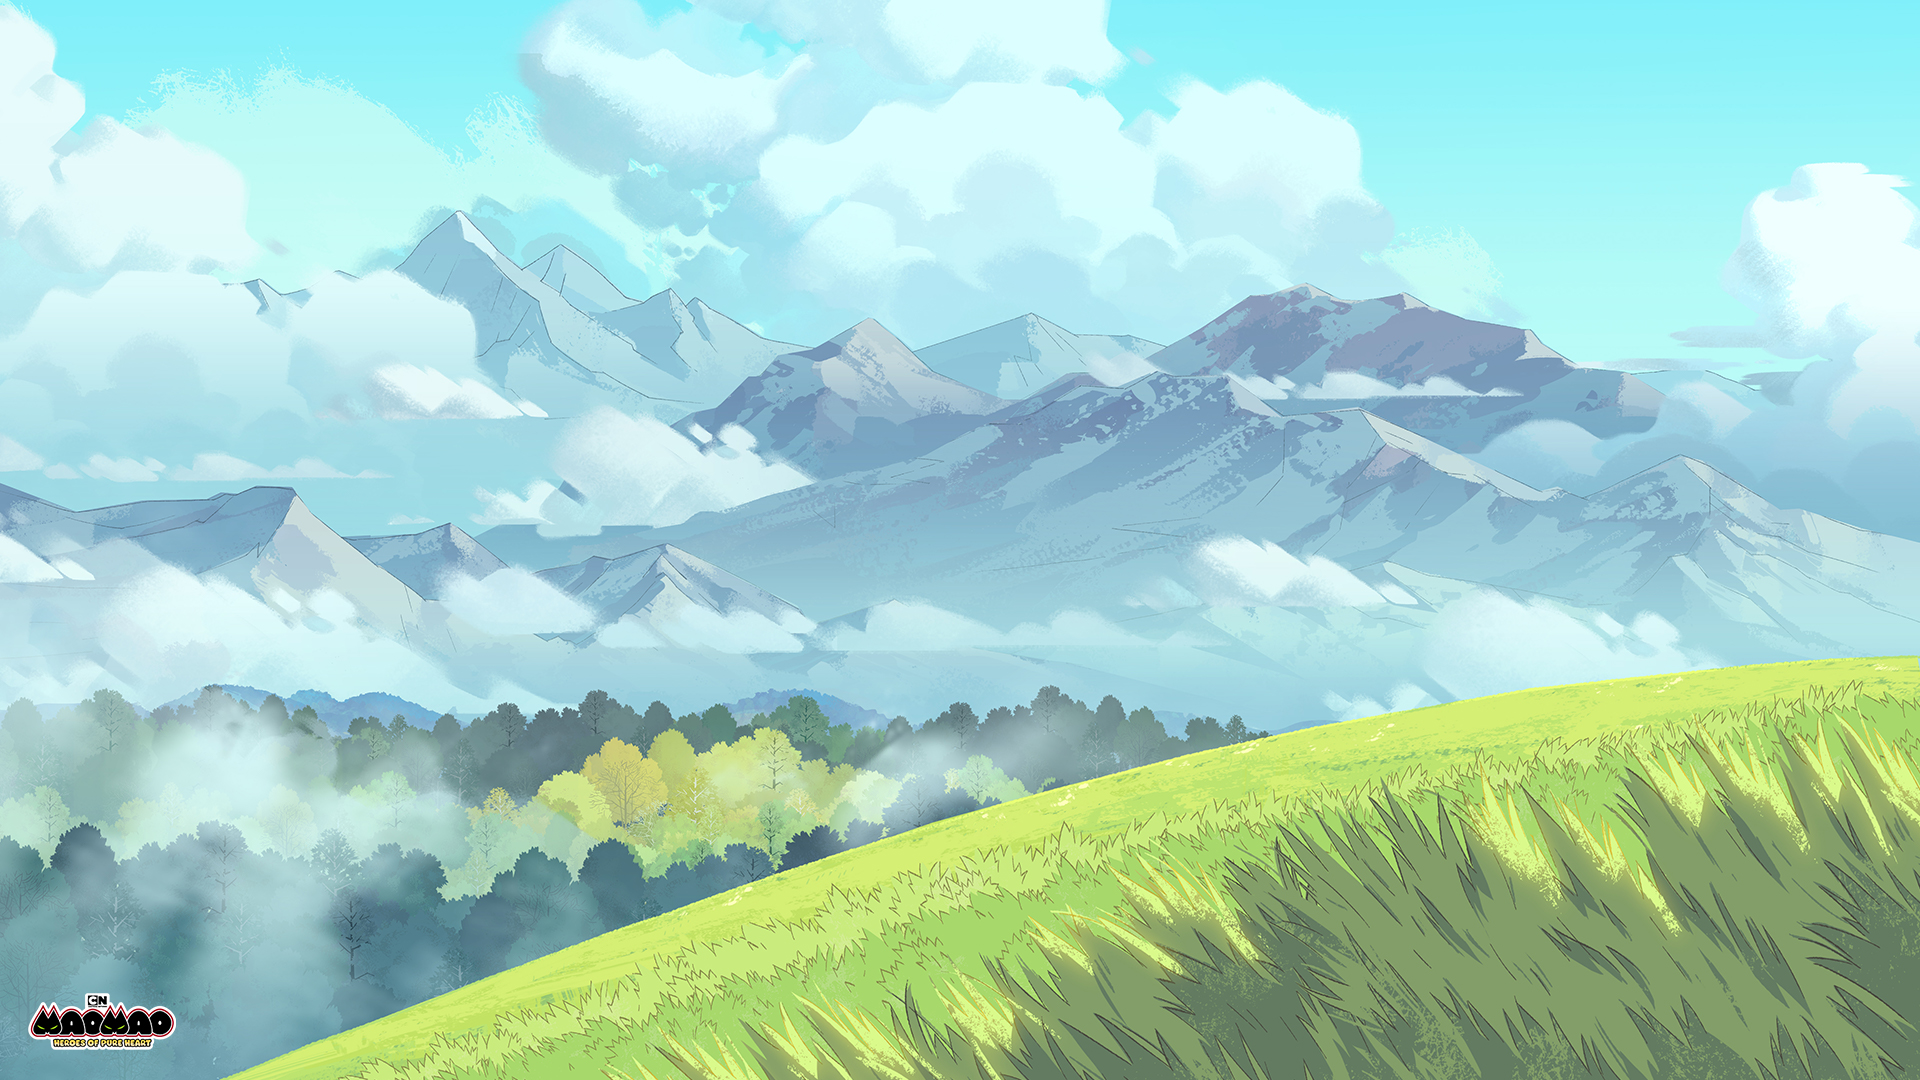
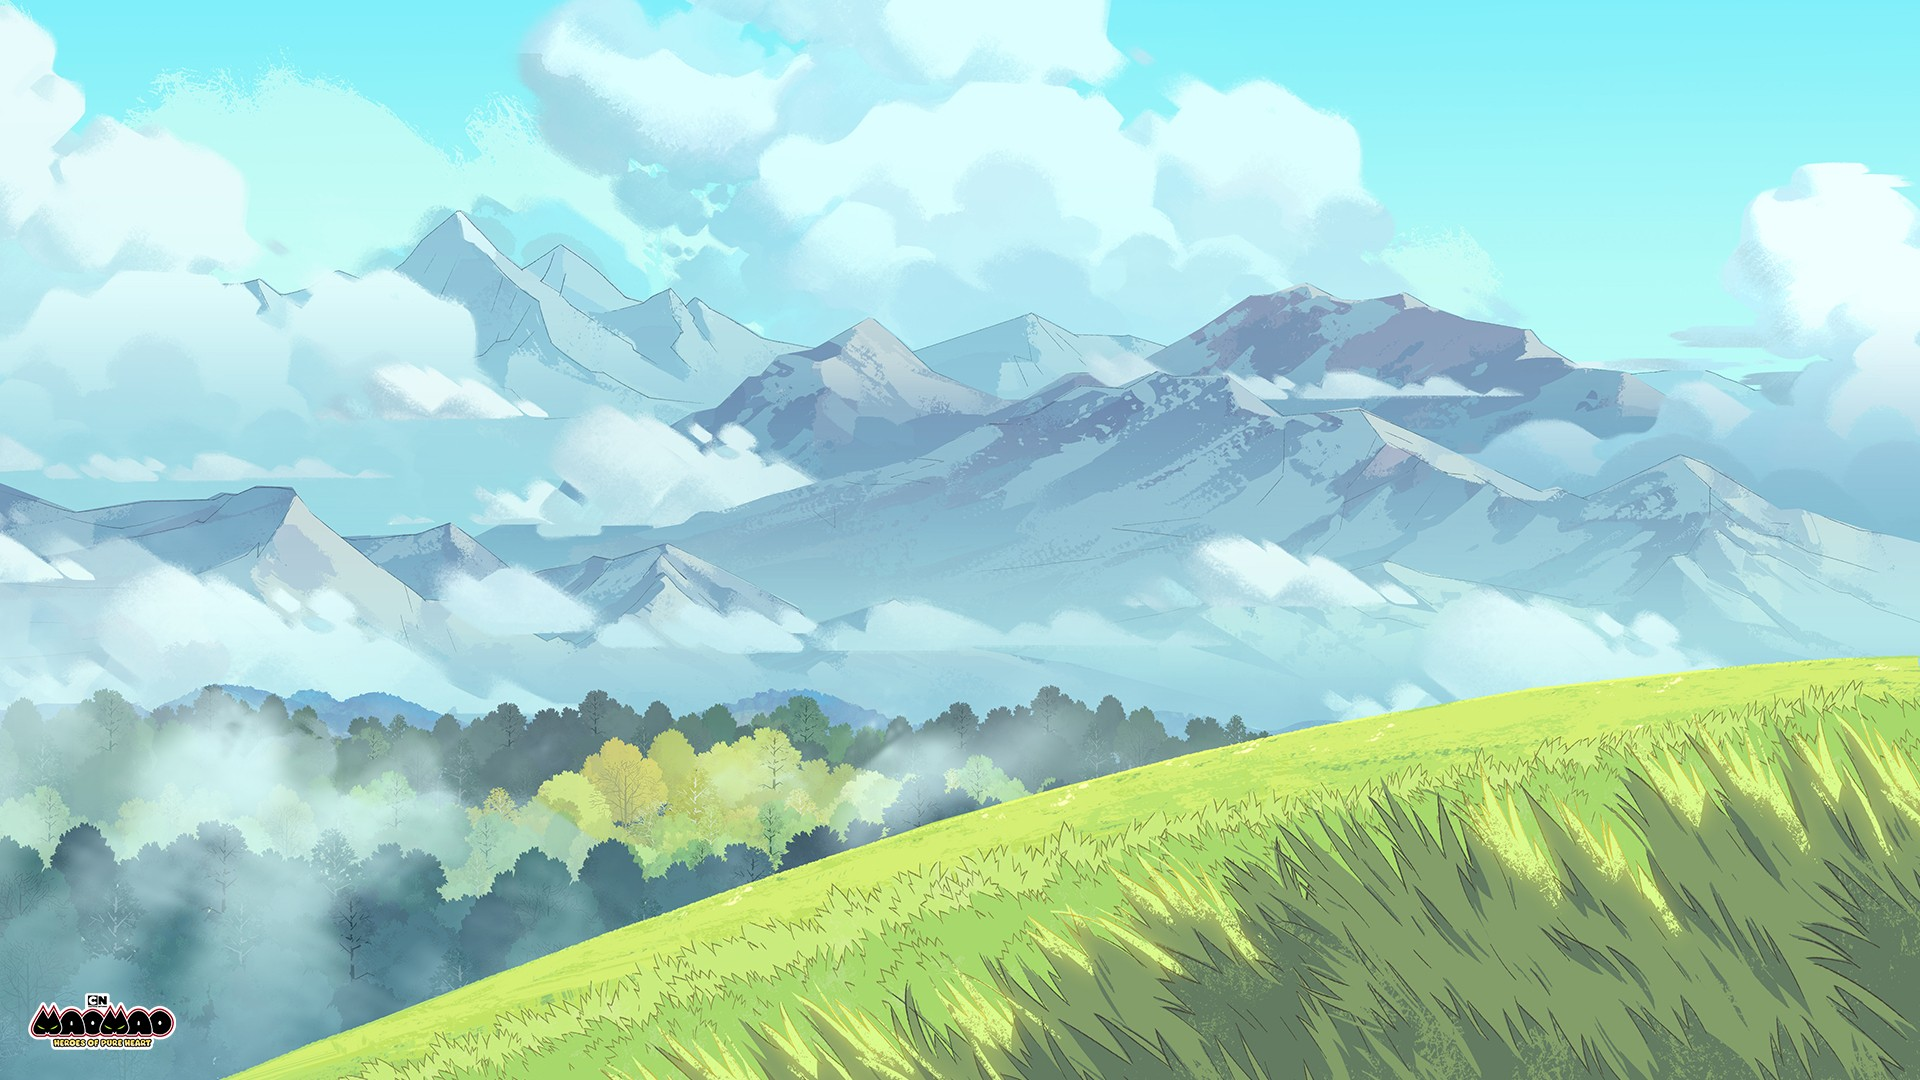
Site updated: 2021-11-17 17:37:42

Changed region(s): [[0.0312, 0.9472, 0.0938, 0.9778], [0.5938, 0.7944, 0.625, 0.825]]

diff --git a/css/diaspora.css b/css/diaspora.css
@@ -27,7 +27,7 @@ audio {display:none;visibility:hidden;opacity:0;width:0;height:0;}
 #header > div {margin:0 60px;position:relative;}
 .icon-menu {font-size:20px;padding:6px 6px 5px;border-radius:2px;cursor:pointer;position:absolute;z-index:4;right:0;top:0;margin-top:-3px;background:rgba(255,255,255,.9);}
 .icon-search {font-size:20px;padding:6px 6px 5px;border-radius:2px;cursor:pointer;position:absolute;z-index:4;right:40px;top:0;margin-top:-3px;background:rgba(255,255,255,.9);}
-.image-logo {z-index:4;position:relative;display:inline-block;-webkit-background-size:75px 32px;-moz-background-size:75px 32px;background-size:75px 32px;background-repeat:no-repeat;background-position:center center;-webkit-mask-box-image:url("/img/mylogo.png");background-color:white;width:75px;height:32px;mask-image:url("/img/mylogo.png");mask-size:contain;transition: background-color 0.5s ease-in-out;}
+.image-logo {z-index:4;position:relative;display:inline-block;-webkit-background-size:185px 41px;-moz-background-size:185px 41px;background-size:185px 41px;background-repeat:no-repeat;background-position:center center;-webkit-mask-box-image:url("/img/mylogo.png");background-color:white;width:185px;height:41px;mask-image:url("/img/mylogo.png");mask-size:contain;transition: background-color 0.5s ease-in-out;}
 body.mu .image-logo {background-color:black;}
 #vibrant {position:absolute;top:0;left:0;width:100%;height:100%;}
 #vibrant div {position:absolute;top:0;left:0;width:100%;height:100%;opacity:0;background-color:#000;}

diff --git a/index.html b/index.html
@@ -116,7 +116,7 @@ o...</p>
         
 <div class="post">
     <a href="/2021/11/16/Machine-Learning/" title="Machine Learning">
-        <img src="/img/%E5%8D%83%E5%AF%BB2.jpg" class="cover" width="680" height="440">
+        <img src="/img/%E5%8D%83%E5%AF%BB5.jpg" class="cover" width="680" height="440">
     </a>
     <div class="else">
         <p>十一月 16, 2021</p>
@@ -128,7 +128,7 @@ o...</p>
 
 <div class="post">
     <a href="/2021/11/14/hello-world/" title="Hello World">
-        <img src="/img/%E5%8D%83%E5%AF%BB2.jpg" class="cover" width="680" height="440">
+        <img src="/img/%E5%8D%83%E5%AF%BB4.jpg" class="cover" width="680" height="440">
     </a>
     <div class="else">
         <p>十一月 14, 2021</p>
